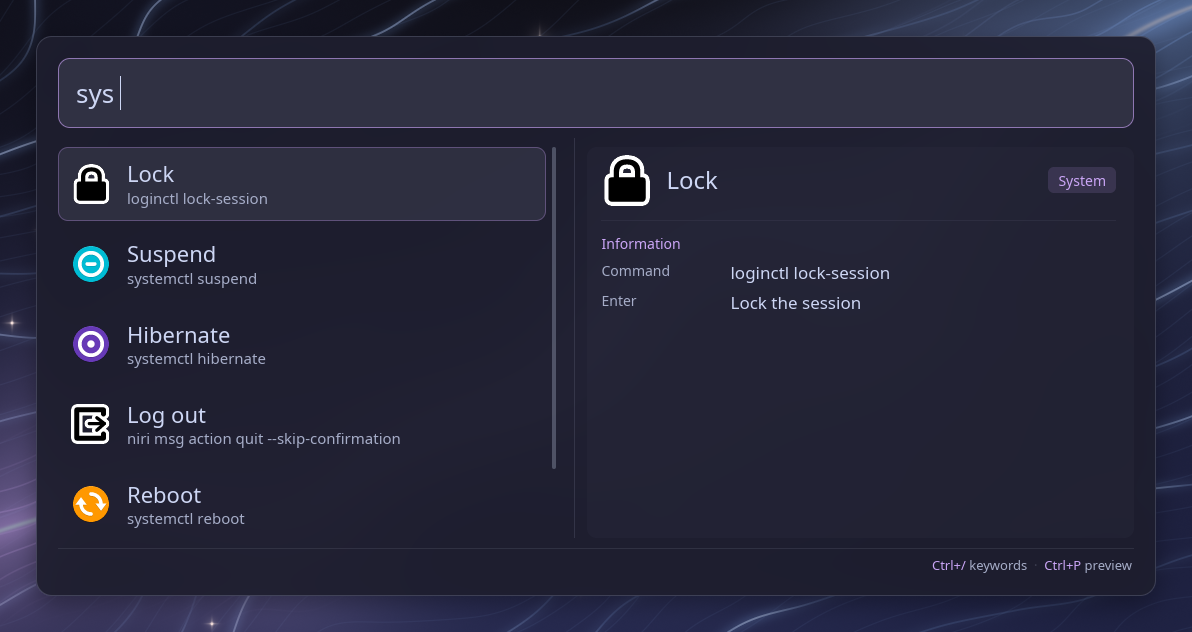
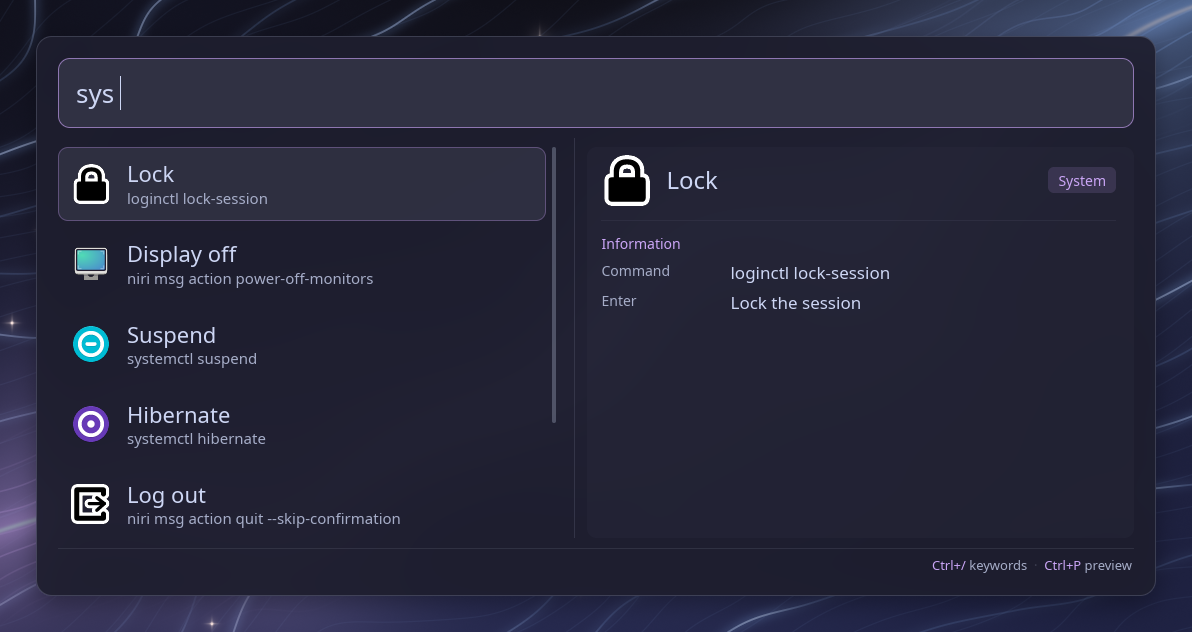
feat: Add display off system command
* Added a display off option to system commands.
* Supported native commands for Hyprland, Sway, and Niri compositors.

diff --git a/src/ui/wayland/tests.rs b/src/ui/wayland/tests.rs
@@ -2158,6 +2158,9 @@ fn help_addons() -> AddonsConfig {
 fn test_help_entries_cover_every_enabled_addon_in_routing_order() {
     let entries = help_entries(&help_addons());
     let triggers: Vec<&str> = entries.iter().map(|entry| entry.trigger.as_str()).collect();
+    assert!(entries
+        .iter()
+        .any(|entry| entry.trigger == "sys" && entry.usage.contains("display off")));
 
     assert_eq!(
         triggers,
@@ -4733,14 +4736,18 @@ fn test_default_triggers_do_not_shadow_each_other_or_web_searches() {
         subtitles,
         vec![
             "Search Sysdig",
-            "Lock, suspend, hibernate, log out, reboot or shut down"
+            "Lock, display off, suspend, hibernate, log out, reboot or shut down"
         ]
     );
+    assert!(keyword_suggestions("display", &addons)
+        .iter()
+        .any(|suggestion| suggestion.keyword == "sys"));
 }
 
 #[test]
 fn test_system_list_filters_entries() {
     let mut app = test_app(AddonsConfig::default());
+    app.compositor = || None;
     open_system(&mut app, "sys ");
     assert_eq!(
         command_list_titles(&app),
@@ -4800,6 +4807,7 @@ fn test_system_power_actions_need_a_second_enter() {
 #[test]
 fn test_system_confirmation_resets_on_selection_query_and_modifiers() {
     let mut app = test_app(AddonsConfig::default());
+    app.compositor = || None;
     open_system(&mut app, "sys ");
     app.selected_index = 4;
 
@@ -4871,8 +4879,9 @@ fn test_system_commands_overrides_and_hide() {
     let entries = system_entries(&addons.system, Some(Compositor::Hyprland), None, |_| true);
     let ids: Vec<crate::SystemCommand> = entries.iter().map(|entry| entry.id).collect();
     use crate::SystemCommand::*;
-    assert_eq!(ids, vec![Lock, Logout, Reboot, Shutdown]);
-    assert!(matches!(&entries[1].action, DeferredAction::Command(argv) if argv == &["my-logout"]));
+    assert_eq!(ids, vec![Lock, DisplayOff, Logout, Reboot, Shutdown]);
+    let logout = entries.iter().find(|entry| entry.id == Logout).unwrap();
+    assert!(matches!(&logout.action, DeferredAction::Command(argv) if argv == &["my-logout"]));
 
     let mut app = test_app(addons);
     open_system(&mut app, "sys lock");
@@ -4881,6 +4890,91 @@ fn test_system_commands_overrides_and_hide() {
         deferred_argv(&app),
         Some(vec!["hyprlock".into(), "--immediate".into()])
     );
+}
+
+#[test]
+fn test_system_display_off_defaults_and_overrides() {
+    let mut config = crate::SystemAddonConfig::default();
+    let cases: [(Compositor, &[&str]); 2] = [
+        (Compositor::Sway, &["swaymsg", "output * power off"]),
+        (
+            Compositor::Niri,
+            &["niri", "msg", "action", "power-off-monitors"],
+        ),
+    ];
+
+    for (compositor, expected) in cases {
+        let expected: Vec<String> = expected.iter().map(|arg| (*arg).to_string()).collect();
+        let entry = system_entries(&config, Some(compositor), None, |_| true)
+            .into_iter()
+            .find(|entry| entry.id == crate::SystemCommand::DisplayOff)
+            .unwrap();
+        assert!(matches!(
+            &entry.action,
+            DeferredAction::Command(argv) if argv == &expected
+        ));
+        assert_eq!(entry.command_line(), expected.join(" "));
+        assert!(entry.needs_confirmation());
+        assert!(entry.missing.is_none());
+    }
+
+    let hypr = system_entries(&config, Some(Compositor::Hyprland), None, |_| true)
+        .into_iter()
+        .find(|entry| entry.id == crate::SystemCommand::DisplayOff)
+        .unwrap();
+    assert!(matches!(
+        &hypr.action,
+        DeferredAction::Hypr(HyprAction::DisplayOff)
+    ));
+    assert_eq!(
+        hypr.command_line(),
+        "Hyprland dpms off dispatcher via hyprctl"
+    );
+    assert_eq!(
+        HyprAction::DisplayOff.lua(),
+        r#"hl.dispatch(hl.dsp.dpms({ action = "off" }))"#
+    );
+    assert_eq!(HyprAction::DisplayOff.legacy(), vec![vec!["dpms", "off"]]);
+    assert!(hypr.needs_confirmation());
+    assert!(hypr.missing.is_none());
+
+    assert!(!system_entries(&config, None, None, |_| true)
+        .iter()
+        .any(|entry| entry.id == crate::SystemCommand::DisplayOff));
+
+    config.commands.display_off = Some(vec!["custom-display-off".into(), "--now".into()]);
+    let entry = system_entries(&config, None, None, |_| true)
+        .into_iter()
+        .find(|entry| entry.id == crate::SystemCommand::DisplayOff)
+        .unwrap();
+    let expected = vec!["custom-display-off".to_string(), "--now".to_string()];
+    assert!(matches!(
+        &entry.action,
+        DeferredAction::Command(argv) if argv == &expected
+    ));
+
+    config.hide.push(crate::SystemCommand::DisplayOff);
+    assert!(!system_entries(&config, None, None, |_| true)
+        .iter()
+        .any(|entry| entry.id == crate::SystemCommand::DisplayOff));
+}
+
+#[test]
+fn test_system_display_off_requires_a_second_enter() {
+    let mut app = test_app(AddonsConfig::default());
+    app.compositor = || Some(Compositor::Hyprland);
+    open_system(&mut app, "sys display");
+    assert_eq!(command_list_titles(&app), vec!["Display off"]);
+
+    assert_eq!(app.update(Message::Submit).units(), 0);
+    assert!(app.command_list.armed.is_some());
+    assert!(app.deferred_action.lock().unwrap().is_none());
+
+    assert!(app.update(Message::Submit).units() > 0);
+    assert!(matches!(
+        app.deferred_action.lock().unwrap().as_ref(),
+        Some(DeferredAction::Hypr(HyprAction::DisplayOff))
+    ));
 }
 
 #[test]

diff --git a/src/ui/wayland/system.rs b/src/ui/wayland/system.rs
@@ -35,6 +35,10 @@ impl SystemEntry {
             DeferredAction::Hypr(HyprAction::Exit) => {
                 "Hyprland exit dispatcher via hyprctl".to_string()
             }
+            // `hyprctl eval` with a Lua config, `hyprctl dispatch dpms off` otherwise.
+            DeferredAction::Hypr(HyprAction::DisplayOff) => {
+                "Hyprland dpms off dispatcher via hyprctl".to_string()
+            }
             DeferredAction::NiriQuit => super::windows::NIRI_QUIT.join(" "),
             DeferredAction::SwayExit => super::windows::SWAY_EXIT.join(" "),
             DeferredAction::Hypr(_)
@@ -52,8 +56,14 @@ impl SystemEntry {
     }
 }
 
-const ENTRIES: [(SystemCommand, &str, &str, &str); 6] = [
+const ENTRIES: [(SystemCommand, &str, &str, &str); 7] = [
     (SystemCommand::Lock, "Lock", "lock", "system-lock-screen"),
+    (
+        SystemCommand::DisplayOff,
+        "Display off",
+        "turn the display off",
+        "video-display",
+    ),
     (
         SystemCommand::Suspend,
         "Suspend",
@@ -85,14 +95,20 @@ fn default_action(
     id: SystemCommand,
     compositor: Option<Compositor>,
     session_id: Option<&str>,
-) -> DeferredAction {
+) -> Option<DeferredAction> {
     let argv =
         |args: &[&str]| DeferredAction::Command(args.iter().map(|s| s.to_string()).collect());
     match id {
-        SystemCommand::Lock => argv(&["loginctl", "lock-session"]),
-        SystemCommand::Suspend => argv(&["systemctl", "suspend"]),
-        SystemCommand::Hibernate => argv(&["systemctl", "hibernate"]),
-        SystemCommand::Logout => match compositor {
+        SystemCommand::Lock => Some(argv(&["loginctl", "lock-session"])),
+        SystemCommand::DisplayOff => match compositor {
+            Some(Compositor::Hyprland) => Some(DeferredAction::Hypr(HyprAction::DisplayOff)),
+            Some(Compositor::Niri) => Some(argv(&["niri", "msg", "action", "power-off-monitors"])),
+            Some(Compositor::Sway) => Some(argv(&["swaymsg", "output * power off"])),
+            None => None,
+        },
+        SystemCommand::Suspend => Some(argv(&["systemctl", "suspend"])),
+        SystemCommand::Hibernate => Some(argv(&["systemctl", "hibernate"])),
+        SystemCommand::Logout => Some(match compositor {
             Some(Compositor::Hyprland) => DeferredAction::Hypr(HyprAction::Exit),
             Some(Compositor::Niri) => DeferredAction::NiriQuit,
             Some(Compositor::Sway) => DeferredAction::SwayExit,
@@ -101,9 +117,9 @@ fn default_action(
                 args.extend(session_id);
                 argv(&args)
             }
-        },
-        SystemCommand::Reboot => argv(&["systemctl", "reboot"]),
-        SystemCommand::Shutdown => argv(&["systemctl", "poweroff"]),
+        }),
+        SystemCommand::Reboot => Some(argv(&["systemctl", "reboot"])),
+        SystemCommand::Shutdown => Some(argv(&["systemctl", "poweroff"])),
     }
 }
 
@@ -127,8 +143,8 @@ fn program(action: &DeferredAction) -> Option<&str> {
     }
 }
 
-/// The visible entries for `config`. `compositor` and `session_id` pick the
-/// default log out command; `exists` reports whether a program is installed.
+/// The visible entries for `config`. `compositor` and `session_id` select
+/// context-specific defaults; `exists` reports whether a program is installed.
 pub(super) fn system_entries(
     config: &SystemAddonConfig,
     compositor: Option<Compositor>,
@@ -142,7 +158,7 @@ pub(super) fn system_entries(
             let (action, overridden) = match config.commands.get(id) {
                 Some(argv) if argv.is_empty() => return None,
                 Some(argv) => (DeferredAction::Command(argv.clone()), true),
-                None => (default_action(id, compositor, session_id), false),
+                None => (default_action(id, compositor, session_id)?, false),
             };
             let no_session = id == SystemCommand::Logout
                 && !overridden

diff --git a/src/ui/wayland/hyprland.rs b/src/ui/wayland/hyprland.rs
@@ -166,6 +166,8 @@ pub(super) enum HyprAction {
         workspace: String,
     },
     Exit,
+    /// Turn every display off.
+    DisplayOff,
 }
 
 impl HyprAction {
@@ -204,6 +206,7 @@ impl HyprAction {
                 lua_quote(workspace)
             ),
             Self::Exit => "hl.dispatch(hl.dsp.exit())".into(),
+            Self::DisplayOff => "hl.dispatch(hl.dsp.dpms({ action = \"off\" }))".into(),
         }
     }
 
@@ -231,6 +234,7 @@ impl HyprAction {
                 format!("{workspace},address:{address}"),
             ]],
             Self::Exit => vec![vec!["exit".into()]],
+            Self::DisplayOff => vec![vec!["dpms".into(), "off".into()]],
         }
     }
 
@@ -841,6 +845,12 @@ printf '%s|' "$@" > "$OUT"
 
         assert_eq!(HyprAction::Exit.lua(), "hl.dispatch(hl.dsp.exit())");
         assert_eq!(HyprAction::Exit.legacy(), vec![vec!["exit"]]);
+
+        assert_eq!(
+            HyprAction::DisplayOff.lua(),
+            r#"hl.dispatch(hl.dsp.dpms({ action = "off" }))"#
+        );
+        assert_eq!(HyprAction::DisplayOff.legacy(), vec![vec!["dpms", "off"]]);
     }
 
     #[test]
@@ -917,6 +927,34 @@ printf '%s|' "$@" > "$OUT"
 
         let (result, _) = run("ok", false, "ok");
         assert_eq!(result.unwrap_err(), "hyprctl failed");
+
+        let run_off = |eval_reply: &'static str| {
+            let calls = std::cell::RefCell::new(Vec::new());
+            let result = HyprAction::DisplayOff.run_with(|args| {
+                calls.borrow_mut().push(args.join(" "));
+                if args[0] == "eval" {
+                    Ok((true, eval_reply.to_string()))
+                } else {
+                    Ok((true, "ok".to_string()))
+                }
+            });
+            (result, calls.into_inner())
+        };
+        let (result, calls) = run_off("ok\n");
+        assert!(result.is_ok());
+        assert_eq!(
+            calls,
+            vec!["eval hl.dispatch(hl.dsp.dpms({ action = \"off\" }))"]
+        );
+        let (result, calls) = run_off("eval is only supported with the lua config manager");
+        assert!(result.is_ok());
+        assert_eq!(
+            calls,
+            vec![
+                "eval hl.dispatch(hl.dsp.dpms({ action = \"off\" }))",
+                "dispatch dpms off",
+            ]
+        );
     }
 
     /// Exercises the real deferred path on a throwaway window, which it

diff --git a/src/lib.rs b/src/lib.rs
@@ -689,6 +689,7 @@ impl Default for ClipboardAddonConfig {
 #[serde(rename_all = "snake_case")]
 pub enum SystemCommand {
     Lock,
+    DisplayOff,
     Suspend,
     Hibernate,
     Logout,
@@ -704,6 +705,12 @@ pub struct SystemCommandsConfig {
     /// Default: `loginctl lock-session`.
     #[serde(default)]
     pub lock: Option<Vec<String>>,
+    /// Default: Hyprland's dpms dispatcher on Hyprland (through `hyprctl eval`
+    /// with a Lua config, `hyprctl dispatch dpms off` otherwise),
+    /// `niri msg action power-off-monitors` on niri,
+    /// `swaymsg 'output * power off'` on sway; omitted without a supported compositor.
+    #[serde(default)]
+    pub display_off: Option<Vec<String>>,
     /// Default: `systemctl suspend`.
     #[serde(default)]
     pub suspend: Option<Vec<String>>,
@@ -729,6 +736,7 @@ impl SystemCommandsConfig {
     pub fn get(&self, command: SystemCommand) -> Option<&Vec<String>> {
         match command {
             SystemCommand::Lock => self.lock.as_ref(),
+            SystemCommand::DisplayOff => self.display_off.as_ref(),
             SystemCommand::Suspend => self.suspend.as_ref(),
             SystemCommand::Hibernate => self.hibernate.as_ref(),
             SystemCommand::Logout => self.logout.as_ref(),
@@ -6357,13 +6365,22 @@ shell:
         assert_eq!(defaults.trigger(), "sys");
 
         let config: SystemAddonConfig = serde_yaml::from_str(
-            "trigger: power\ncommands:\n  lock: [hyprlock]\nhide: [hibernate, logout]\n",
+            "trigger: power\ncommands:\n  lock: [hyprlock]\n  display_off: [hyprctl, dispatch, dpms, off]\nhide: [hibernate, logout]\n",
         )
         .unwrap();
         assert_eq!(config.trigger(), "power");
         assert_eq!(
             config.commands.get(SystemCommand::Lock),
             Some(&vec!["hyprlock".to_string()])
+        );
+        assert_eq!(
+            config.commands.get(SystemCommand::DisplayOff),
+            Some(&vec![
+                "hyprctl".to_string(),
+                "dispatch".to_string(),
+                "dpms".to_string(),
+                "off".to_string()
+            ])
         );
         assert_eq!(config.commands.get(SystemCommand::Reboot), None);
         assert_eq!(

diff --git a/src/ui/wayland/app.rs b/src/ui/wayland/app.rs
@@ -825,6 +825,8 @@ pub(super) fn keyword_suggestions(query: &str, addons: &AddonsConfig) -> Vec<Key
         && (matches(addons.system.trigger())
             || intent(&[
                 "lock",
+                "display",
+                "monitor",
                 "logout",
                 "suspend",
                 "sleep",
@@ -837,7 +839,8 @@ pub(super) fn keyword_suggestions(query: &str, addons: &AddonsConfig) -> Vec<Key
     {
         suggestions.push(KeywordSuggestion {
             keyword: addons.system.trigger().to_string(),
-            subtitle: "Lock, suspend, hibernate, log out, reboot or shut down".to_string(),
+            subtitle: "Lock, display off, suspend, hibernate, log out, reboot or shut down"
+                .to_string(),
             icon: Some(SYSTEM_ICON.to_string()),
         });
     }

diff --git a/src/ui/wayland/help.rs b/src/ui/wayland/help.rs
@@ -124,7 +124,9 @@ pub(super) fn help_entries(addons: &AddonsConfig) -> Vec<HelpEntry> {
             section: HelpSection::KeywordsAndActions,
             trigger: trigger.to_string(),
             title: "System commands".to_string(),
-            usage: format!("{trigger} <lock|suspend|hibernate|log out|reboot|shut down>"),
+            usage: format!(
+                "{trigger} <lock|display off|suspend|hibernate|log out|reboot|shut down>"
+            ),
             icon: Some(super::app::SYSTEM_ICON.to_string()),
             completion: Some(format!("{trigger} ")),
         });
